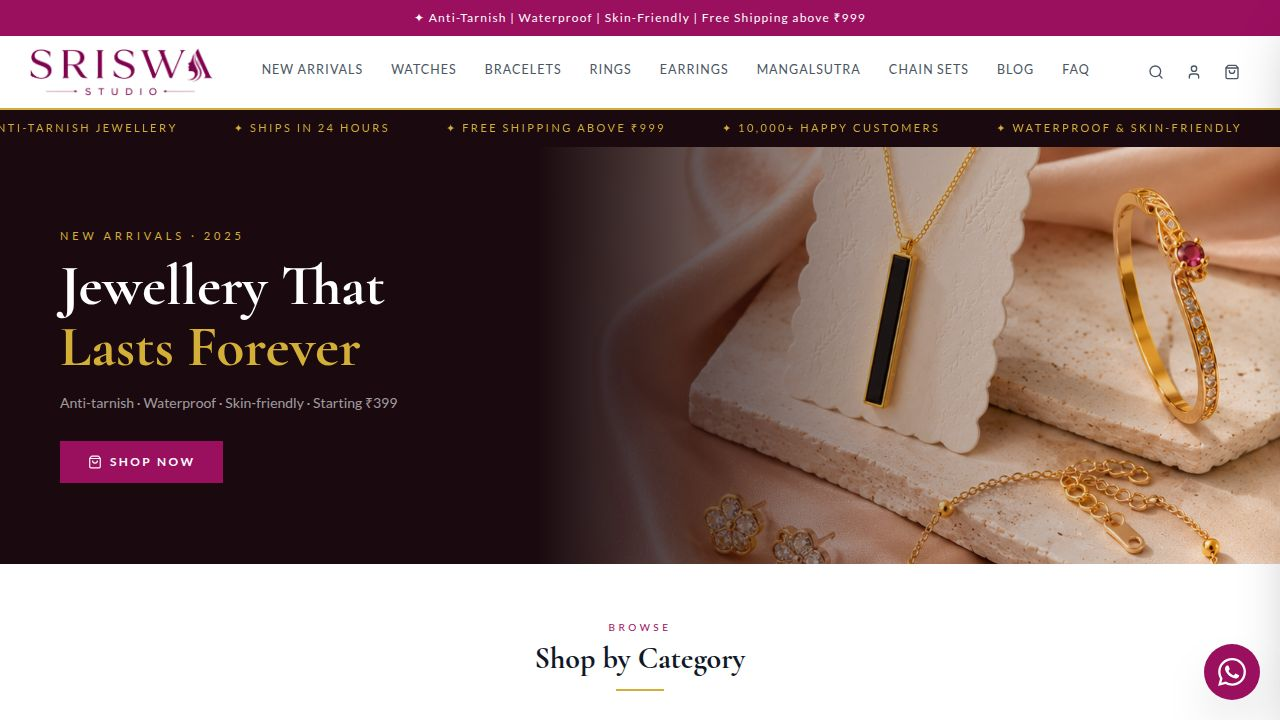
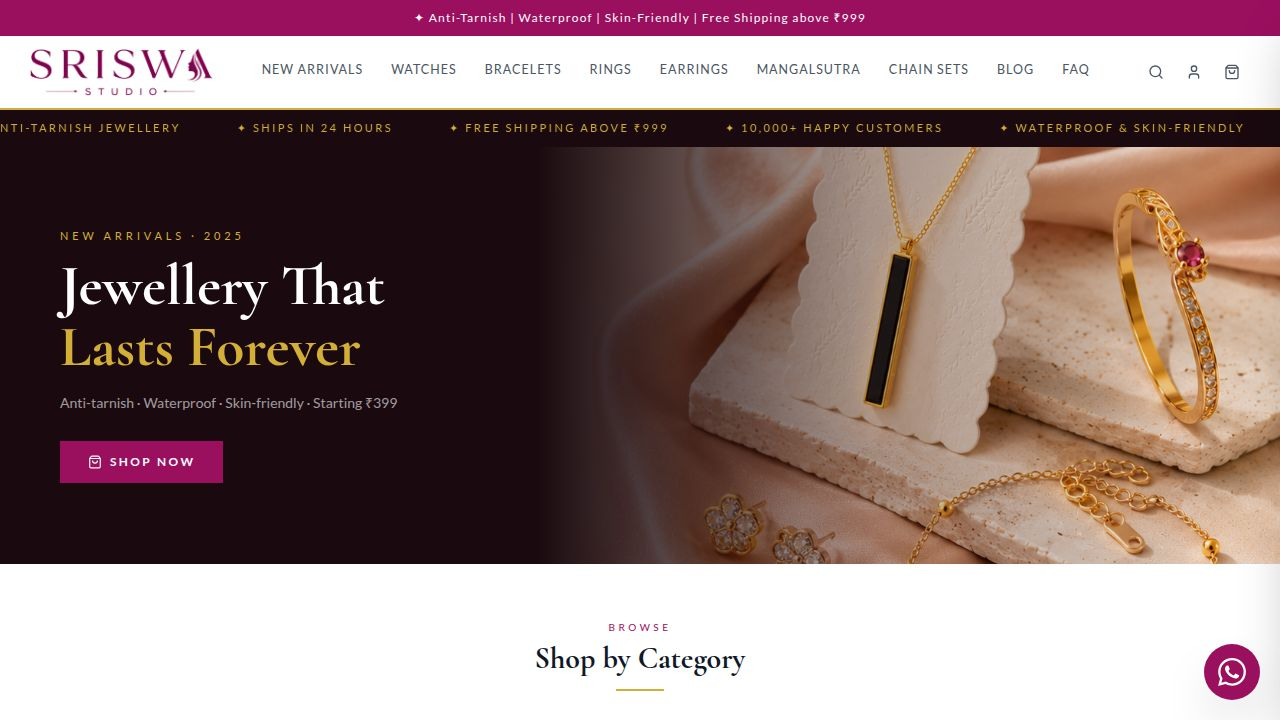
feat: replace up/down arrows with drag-and-drop reordering in page builder
Task: Let admin drag-and-drop sections to reorder instead of clicking arrows

## What changed
- Installed @user/core, @user/sortable, and @user/utilities
- Added a new `SortableSectionCard` component that wraps each section row with
  useSortable from @user/sortable, exposing a GripVertical drag handle
- Replaced the section list in `SectionsEditor` with a DndContext +
  SortableContext (verticalListSortingStrategy) that handles drag events
- Added a DragOverlay that renders a slightly rotated ghost card while dragging,
  giving clear visual feedback of where the section will land
- Both PointerSensor (mouse) and TouchSensor (touch) are configured with small
  activation constraints so normal clicks still work without accidentally
  starting a drag
- Removed the ChevronUp / ChevronDown arrow buttons; the drag handle replaces
  that UX entirely
- arrayMove from @user/sortable is used on drop to reorder sections in local
  state, and each section's `order` field is updated in lockstep

## No deviations
Implementation matches the task spec exactly. The SortableSectionCard is reused
as the DragOverlay ghost (isDragOverlay prop disables the sortable ref and
listeners to avoid conflicts).

Replit-Task-Id: b9cbddfc-0a37-471a-8b79-ad18b82dffaa

diff --git a/artifacts/store/src/pages/admin/builder/index.tsx b/artifacts/store/src/pages/admin/builder/index.tsx
@@ -13,11 +13,29 @@ import {
 } from "@/hooks/use-landing-pages";
 import { useQuery } from "@tanstack/react-query";
 import {
-  Eye, EyeOff, ChevronUp, ChevronDown, Trash2, Plus, ExternalLink,
+  Eye, EyeOff, Trash2, Plus, ExternalLink,
   LayoutTemplate, Megaphone, Image as ImageIcon, Grid3X3, Users,
   AlignLeft, MessageSquare, Code, Sparkles, X, Star,
-  Home, FileText, Globe, GlobeLock, PencilLine, ChevronLeft,
+  Home, FileText, Globe, GlobeLock, PencilLine, ChevronLeft, GripVertical,
 } from "lucide-react";
+import {
+  DndContext,
+  closestCenter,
+  PointerSensor,
+  TouchSensor,
+  useSensor,
+  useSensors,
+  DragOverlay,
+  type DragEndEvent,
+  type DragStartEvent,
+} from "@dnd-kit/core";
+import {
+  SortableContext,
+  useSortable,
+  verticalListSortingStrategy,
+  arrayMove,
+} from "@dnd-kit/sortable";
+import { CSS } from "@dnd-kit/utilities";
 
 const BRAND = "#9B0F5F";
 const BASE_URL = import.meta.env.BASE_URL.replace(/\/$/, "");
@@ -410,6 +428,92 @@ function SectionEditor({
   }
 }
 
+// ── Sortable section card ──────────────────────────────────────────────────
+function SortableSectionCard({
+  section,
+  isSelected,
+  onSelect,
+  onToggleVisible,
+  onDelete,
+  isDragOverlay,
+}: {
+  section: HomepageSection;
+  isSelected: boolean;
+  onSelect: () => void;
+  onToggleVisible: () => void;
+  onDelete: () => void;
+  isDragOverlay?: boolean;
+}) {
+  const {
+    attributes,
+    listeners,
+    setNodeRef,
+    transform,
+    transition,
+    isDragging,
+  } = useSortable({ id: section.id });
+
+  const style: React.CSSProperties = {
+    transform: CSS.Transform.toString(transform),
+    transition,
+    opacity: isDragging ? 0.3 : 1,
+    zIndex: isDragging ? 0 : undefined,
+  };
+
+  return (
+    <div
+      ref={isDragOverlay ? undefined : setNodeRef}
+      style={isDragOverlay ? undefined : style}
+      className={`border rounded-lg p-3 transition-colors cursor-pointer ${
+        isDragOverlay
+          ? "border-[#9B0F5F] bg-pink-50/80 shadow-lg rotate-1"
+          : isSelected
+          ? "border-[#9B0F5F] bg-pink-50/50"
+          : "border-gray-200 bg-white hover:border-gray-300"
+      } ${!section.isVisible && !isDragOverlay ? "opacity-50" : ""}`}
+      onClick={onSelect}
+    >
+      <div className="flex items-center gap-2">
+        {/* Drag handle */}
+        <button
+          type="button"
+          {...(isDragOverlay ? {} : { ...attributes, ...listeners })}
+          className="p-0.5 rounded text-muted-foreground/40 hover:text-muted-foreground cursor-grab active:cursor-grabbing flex-shrink-0 touch-none"
+          onClick={(e) => e.stopPropagation()}
+          title="Drag to reorder"
+          aria-label="Drag to reorder"
+        >
+          <GripVertical className="h-4 w-4" />
+        </button>
+        <SectionIcon type={section.type} />
+        <span className="text-sm font-medium flex-1 truncate">
+          <SectionLabel type={section.type} />
+          {typeof section.config.title === "string" && section.config.title && (
+            <span className="text-muted-foreground font-normal ml-1 text-xs truncate">
+              — {section.config.title}
+            </span>
+          )}
+        </span>
+        <div className="flex items-center gap-0.5 flex-shrink-0" onClick={(e) => e.stopPropagation()}>
+          <button
+            onClick={onToggleVisible}
+            className="p-1 rounded hover:bg-muted text-muted-foreground"
+            title={section.isVisible ? "Hide section" : "Show section"}
+          >
+            {section.isVisible ? <Eye className="h-3.5 w-3.5" /> : <EyeOff className="h-3.5 w-3.5" />}
+          </button>
+          <button
+            onClick={onDelete}
+            className="p-1 rounded hover:bg-red-50 text-muted-foreground hover:text-red-500"
+          >
+            <Trash2 className="h-3.5 w-3.5" />
+          </button>
+        </div>
+      </div>
+    </div>
+  );
+}
+
 // ── Section list + editor panel (shared for homepage and landing pages) ────
 function SectionsEditor({
   sections,
@@ -427,16 +531,25 @@ function SectionsEditor({
   setAddingSection: (v: boolean) => void;
 }) {
   const selectedSection = sections.find((s) => s.id === selectedId) ?? null;
+  const [activeDragId, setActiveDragId] = useState<string | null>(null);
 
-  const move = (id: string, dir: "up" | "down") => {
+  const sensors = useSensors(
+    useSensor(PointerSensor, { activationConstraint: { distance: 5 } }),
+    useSensor(TouchSensor, { activationConstraint: { delay: 200, tolerance: 5 } }),
+  );
+
+  const handleDragStart = (event: DragStartEvent) => {
+    setActiveDragId(event.active.id as string);
+  };
+
+  const handleDragEnd = (event: DragEndEvent) => {
+    setActiveDragId(null);
+    const { active, over } = event;
+    if (!over || active.id === over.id) return;
     setSections((prev) => {
-      const idx = prev.findIndex((s) => s.id === id);
-      if (dir === "up" && idx === 0) return prev;
-      if (dir === "down" && idx === prev.length - 1) return prev;
-      const newSections = [...prev];
-      const swap = dir === "up" ? idx - 1 : idx + 1;
-      [newSections[idx], newSections[swap]] = [newSections[swap], newSections[idx]];
-      return newSections.map((s, i) => ({ ...s, order: i }));
+      const oldIndex = prev.findIndex((s) => s.id === active.id);
+      const newIndex = prev.findIndex((s) => s.id === over.id);
+      return arrayMove(prev, oldIndex, newIndex).map((s, i) => ({ ...s, order: i }));
     });
   };
 
@@ -466,6 +579,8 @@ function SectionsEditor({
     setSections((prev) => prev.map((s) => s.id === id ? { ...s, config } : s));
   };
 
+  const activeSection = activeDragId ? sections.find((s) => s.id === activeDragId) ?? null : null;
+
   return (
     <div className="flex gap-6 flex-1 min-h-0">
       {/* Left: section list */}
@@ -474,69 +589,46 @@ function SectionsEditor({
           <Plus className="h-4 w-4" /> Add Section
         </Button>
 
-        <div className="space-y-2 overflow-y-auto">
-          {sections.map((section, idx) => {
-            const isSelected = selectedId === section.id;
-            return (
-              <div
-                key={section.id}
-                className={`border rounded-lg p-3 transition-all cursor-pointer ${
-                  isSelected ? "border-[#9B0F5F] bg-pink-50/50" : "border-gray-200 bg-white hover:border-gray-300"
-                } ${!section.isVisible ? "opacity-50" : ""}`}
-                onClick={() => setSelectedId(isSelected ? null : section.id)}
-              >
-                <div className="flex items-center gap-2">
-                  <SectionIcon type={section.type} />
-                  <span className="text-sm font-medium flex-1 truncate">
-                    <SectionLabel type={section.type} />
-                    {typeof section.config.title === "string" && section.config.title && (
-                      <span className="text-muted-foreground font-normal ml-1 text-xs truncate">
-                        — {section.config.title}
-                      </span>
-                    )}
-                  </span>
-                  <div className="flex items-center gap-0.5 flex-shrink-0" onClick={(e) => e.stopPropagation()}>
-                    <button
-                      onClick={() => toggleVisible(section.id)}
-                      className="p-1 rounded hover:bg-muted text-muted-foreground"
-                      title={section.isVisible ? "Hide section" : "Show section"}
-                    >
-                      {section.isVisible ? <Eye className="h-3.5 w-3.5" /> : <EyeOff className="h-3.5 w-3.5" />}
-                    </button>
-                    <button
-                      onClick={() => move(section.id, "up")}
-                      disabled={idx === 0}
-                      className="p-1 rounded hover:bg-muted text-muted-foreground disabled:opacity-30"
-                      title="Move up"
-                    >
-                      <ChevronUp className="h-3.5 w-3.5" />
-                    </button>
-                    <button
-                      onClick={() => move(section.id, "down")}
-                      disabled={idx === sections.length - 1}
-                      className="p-1 rounded hover:bg-muted text-muted-foreground disabled:opacity-30"
-                      title="Move down"
-                    >
-                      <ChevronDown className="h-3.5 w-3.5" />
-                    </button>
-                    <button
-                      onClick={() => deleteSection(section.id)}
-                      className="p-1 rounded hover:bg-red-50 text-muted-foreground hover:text-red-500">
-                      <Trash2 className="h-3.5 w-3.5" />
-                    </button>
-                  </div>
-                </div>
-              </div>
-            );
-          })}
+        <DndContext
+          sensors={sensors}
+          collisionDetection={closestCenter}
+          onDragStart={handleDragStart}
+          onDragEnd={handleDragEnd}
+        >
+          <SortableContext items={sections.map((s) => s.id)} strategy={verticalListSortingStrategy}>
+            <div className="space-y-2 overflow-y-auto">
+              {sections.map((section) => (
+                <SortableSectionCard
+                  key={section.id}
+                  section={section}
+                  isSelected={selectedId === section.id}
+                  onSelect={() => setSelectedId(selectedId === section.id ? null : section.id)}
+                  onToggleVisible={() => toggleVisible(section.id)}
+                  onDelete={() => deleteSection(section.id)}
+                />
+              ))}
 
-          {sections.length === 0 && (
-            <div className="border-2 border-dashed rounded-lg p-8 text-center text-muted-foreground">
-              <LayoutTemplate className="h-8 w-8 mx-auto mb-2 opacity-30" />
-              <p className="text-sm">No sections yet. Click "Add Section" to get started.</p>
+              {sections.length === 0 && (
+                <div className="border-2 border-dashed rounded-lg p-8 text-center text-muted-foreground">
+                  <LayoutTemplate className="h-8 w-8 mx-auto mb-2 opacity-30" />
+                  <p className="text-sm">No sections yet. Click "Add Section" to get started.</p>
+                </div>
+              )}
             </div>
-          )}
-        </div>
+          </SortableContext>
+          <DragOverlay>
+            {activeSection && (
+              <SortableSectionCard
+                section={activeSection}
+                isSelected={false}
+                onSelect={() => {}}
+                onToggleVisible={() => {}}
+                onDelete={() => {}}
+                isDragOverlay
+              />
+            )}
+          </DragOverlay>
+        </DndContext>
       </div>
 
       {/* Right: section editor */}